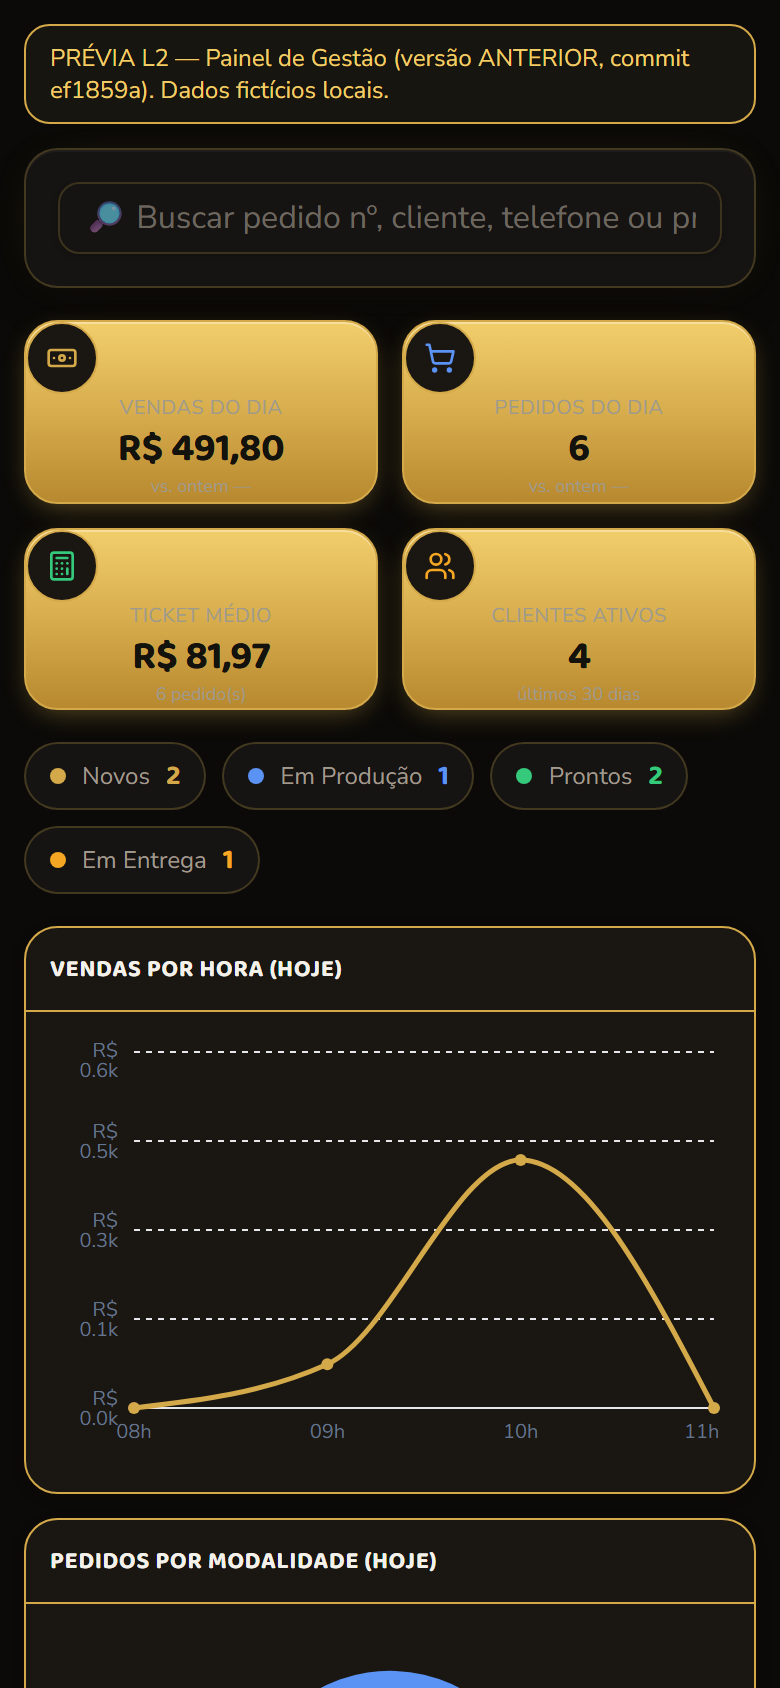
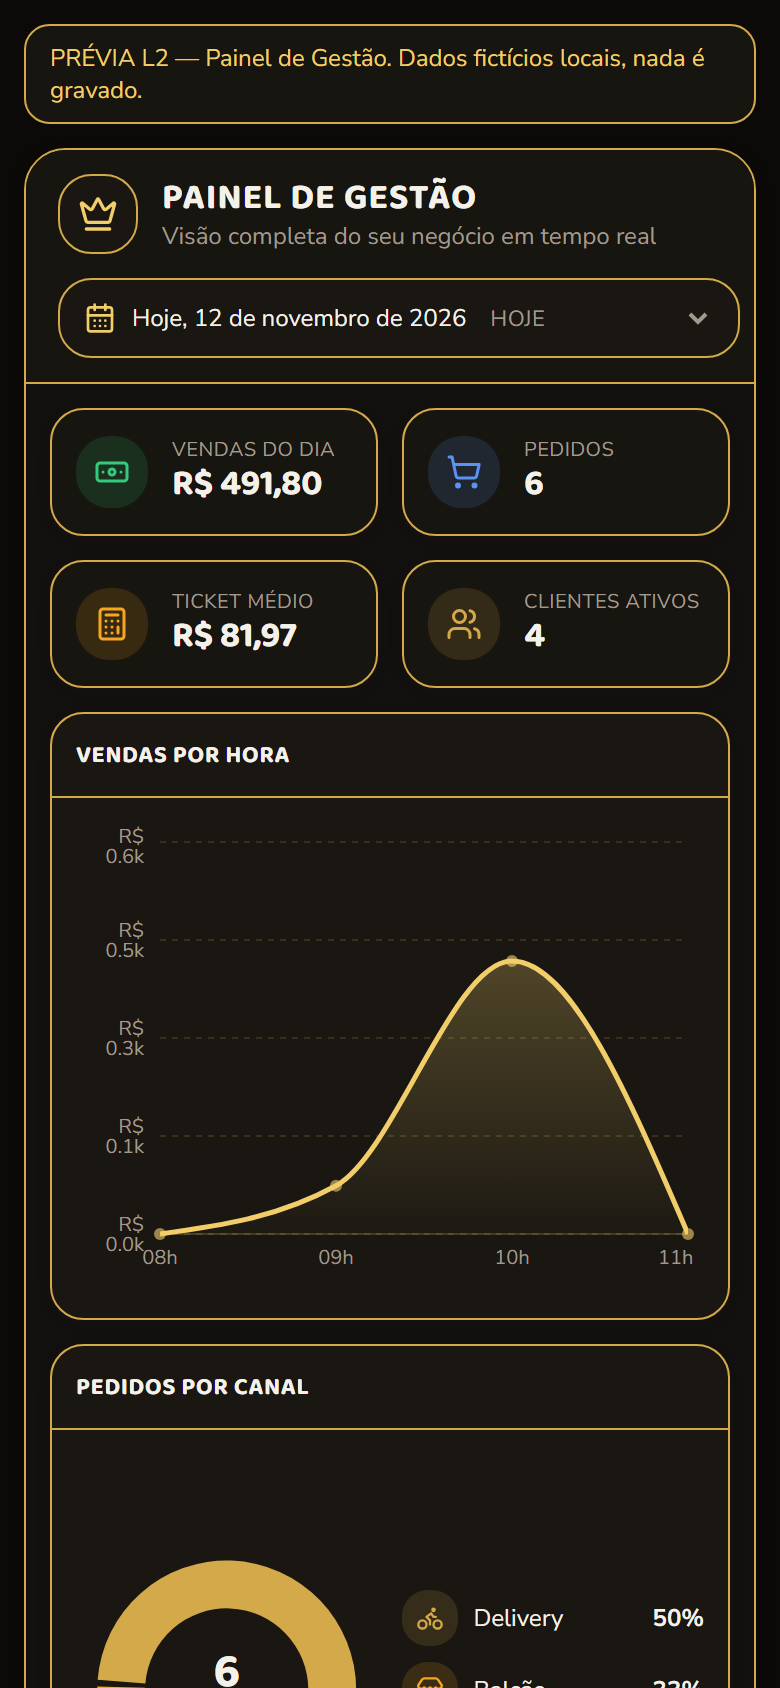
fix(ui): metricas do painel legiveis no mobile (rotulo sem truncamento, delta em sm+)

diff --git a/src/components/admin/erp-ui.tsx b/src/components/admin/erp-ui.tsx
@@ -414,14 +414,14 @@ export function PainelMetrica({
         <Icone className="size-[18px]" aria-hidden />
       </span>
       <div className="min-w-0 flex-1">
-        <p className="truncate text-[10px] font-medium uppercase tracking-wide text-muted-foreground">
+        <p className="line-clamp-2 text-[10px] font-medium uppercase leading-tight tracking-wide text-muted-foreground">
           {label}
         </p>
-        <p className="truncate font-display text-xl font-bold leading-tight text-foreground">
+        <p className="truncate font-display text-lg font-bold leading-tight text-foreground sm:text-xl">
           {valor}
         </p>
       </div>
-      {delta ? <div className="shrink-0 text-right">{delta}</div> : null}
+      {delta ? <div className="hidden shrink-0 text-right sm:block">{delta}</div> : null}
     </>
   );
   const cls =
